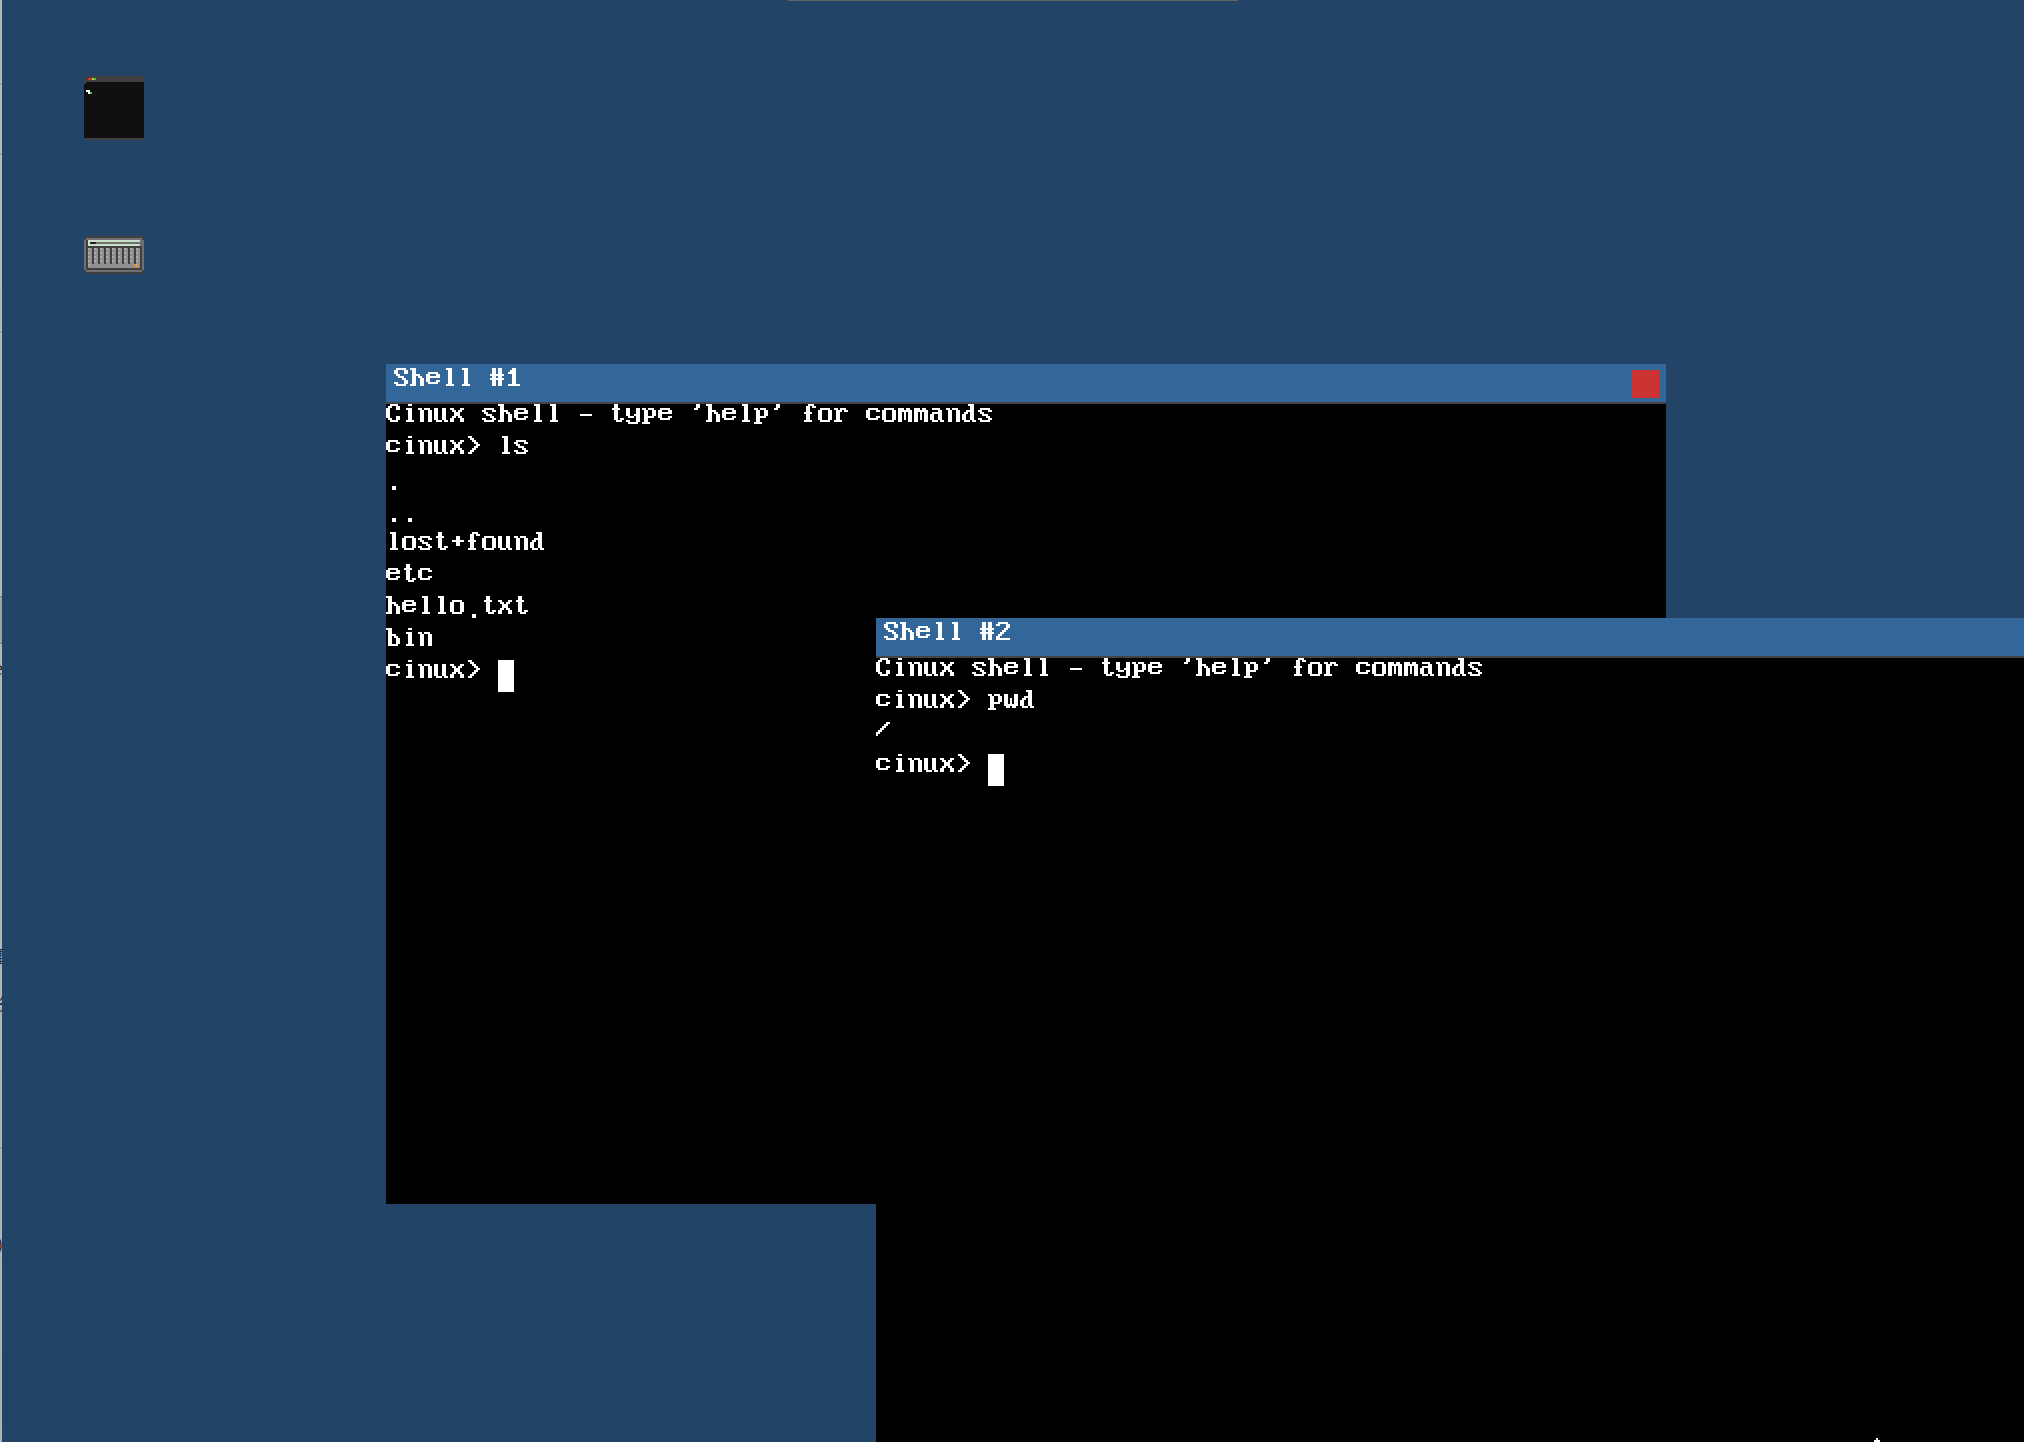
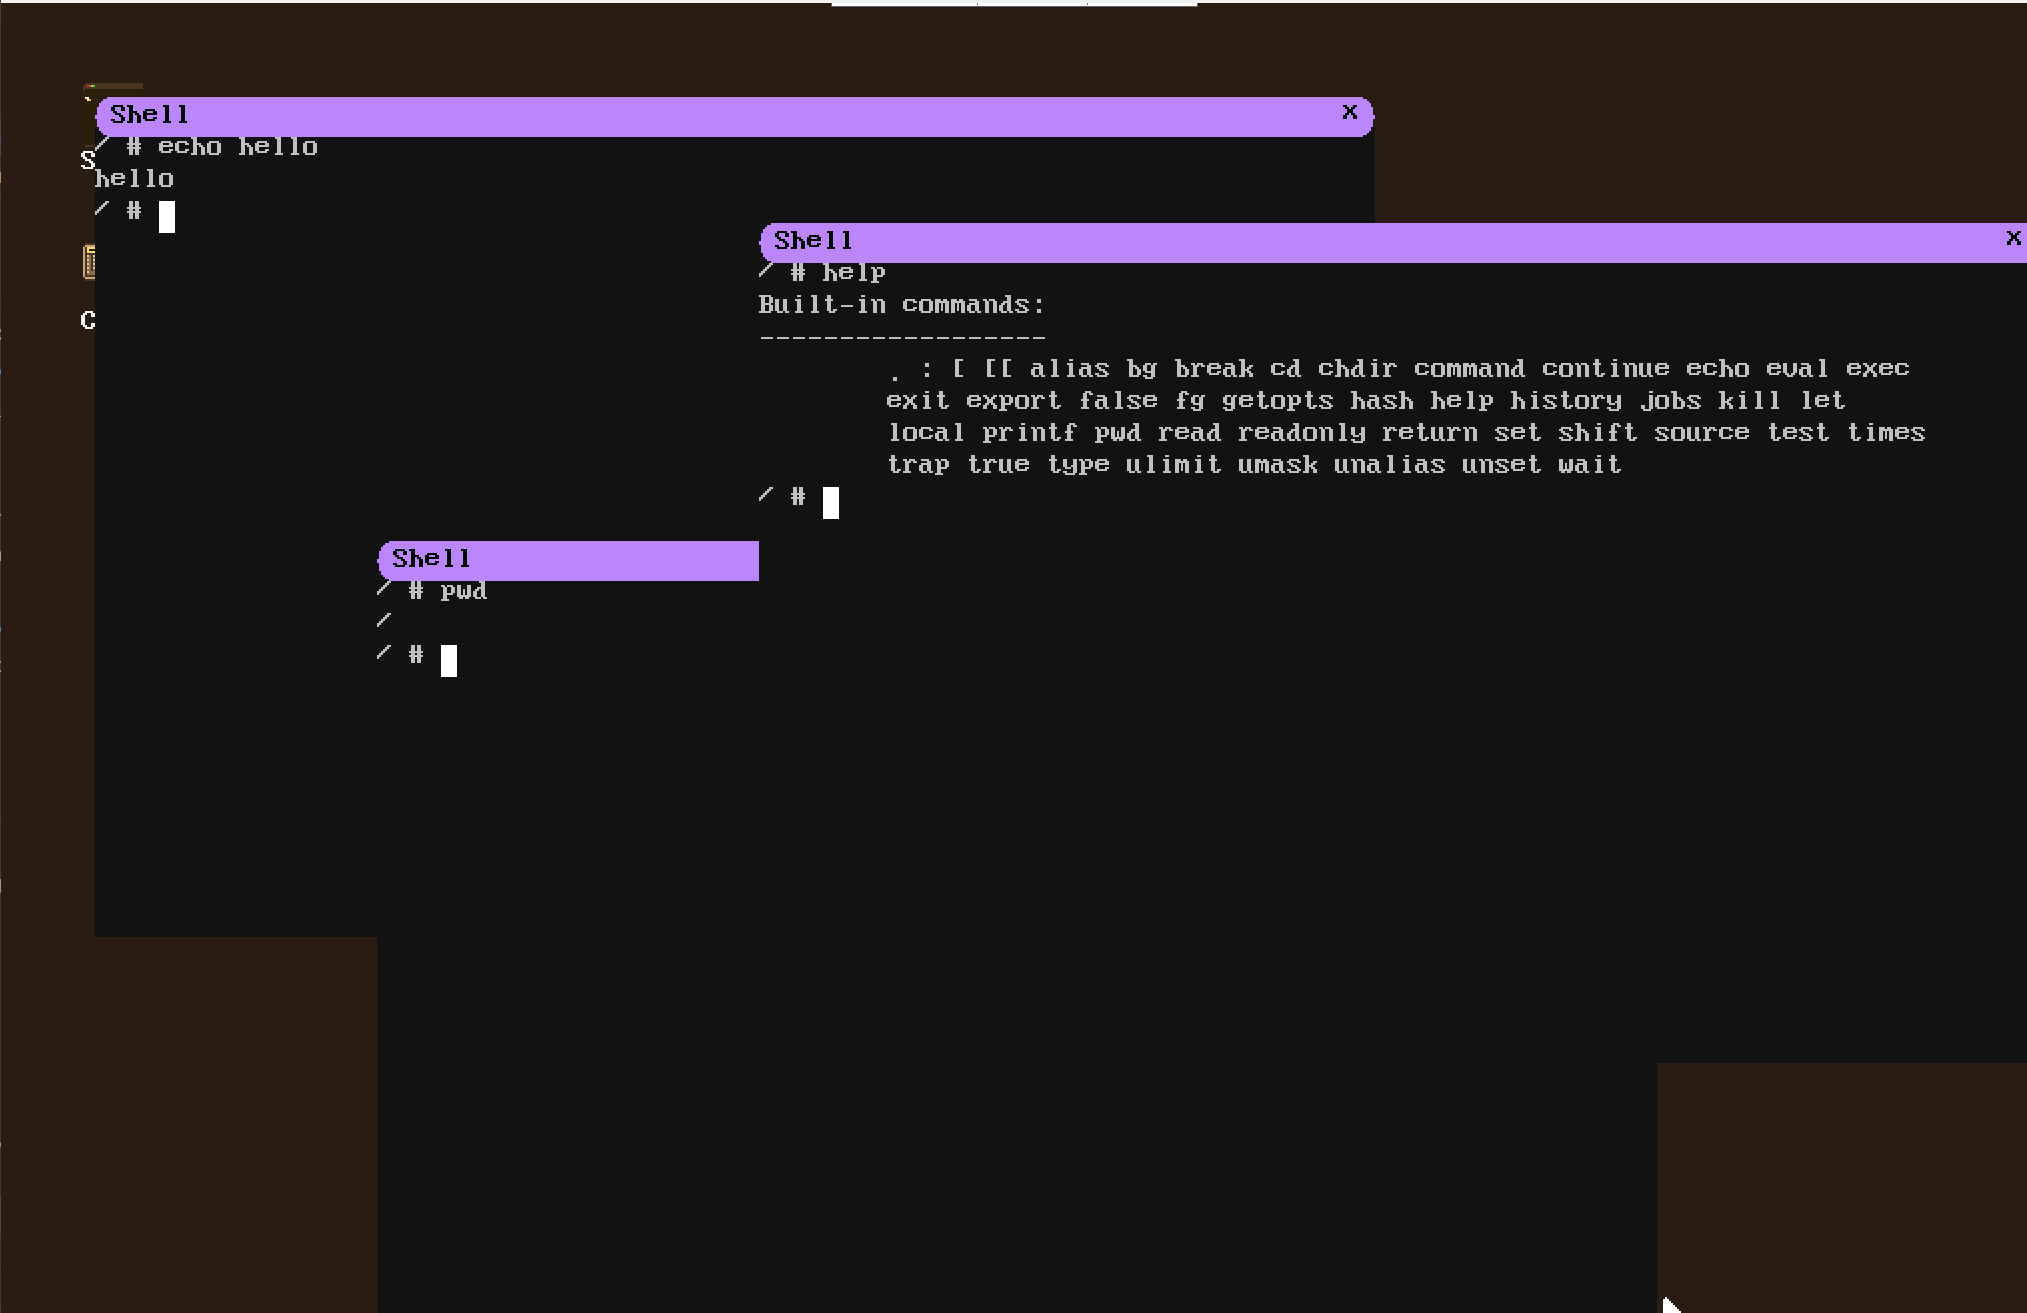
docs(readme): 加完整功能清单(13 子系统折叠)+ 录屏 gif 整理
新增「📋 完整功能清单」折叠章节(特性亮点与架构全链路之间),一个
<details> 包 13 个子系统:内核/启动链、系统调用、内存、SMP、驱动、
FS/VFS、IPC、网络、信号、安全、GUI、GCC 自举、测试。每条交叉读源码
确认(syscall_register 实测 113 行、ext2 只读+ext4 extent、TCP 握手/
挥手、setitimer ITIMER_REAL→SIGALRM、lockdep+RaceWatchpoint、SMEP/
SMAP stac/clac+extable、/dev/tty 按 controlling tty 动态解析等)。
特性亮点表 syscall 数 112→113 同步。

录屏 gif 整理:删旧 gif(filesystem/parallel_work/run_example,README
已不引用)+ RECORDING.md,更新 static_gui.png 截图。

diff --git a/README.md b/README.md
@@ -7,12 +7,12 @@
 [![Version](https://img.shields.io/badge/version-v1.0.0-blue.svg)](document/changelogs/CHANGELOG.md)
 [![License: MIT](https://img.shields.io/badge/License-MIT-blue.svg)](LICENSE)
 [![C++17](https://img.shields.io/badge/C%2B%2B-17-blue.svg)]()
-[![GCC](https://img.shields.io/badge/GCC-11%2B-blue)]()
-[![QEMU](https://img.shields.io/badge/QEMU-8.0%2B-orange)]()
+[![GCC](https://img.shields.io/badge/GCC-16.1.1%2B-blue)]()
+[![QEMU](https://img.shields.io/badge/QEMU-11.0.2%2B-orange)]()
 
 一个基于 x86_64 架构的操作系统——从 **Bootloader 到 GUI 桌面、从内核到 GCC 自举**,全链路实现。
 
-> **Note:** 本项目迁移自教程操作系统 [Cinux](https://github.com/Charliechen114514/Cinux),已演进为完整的 13 Feature / ~50 Milestone 长弧。
+> **Note:** 本项目迁移自教程操作系统 [Cinux](https://github.com/Awesome-Embedded-Learning-Studio/Cinux-Book)
 
 </div>
 
@@ -41,22 +41,19 @@
 </p>
 
 <p align="center">
-  <img src="assets/README/run_example.gif" width="45%" alt="Boot to Shell">
+  <img src="assets/README/boot_from_log_to_uname.gif" width="45%" alt="Boot to Shell">
   <img src="assets/README/multi_shell.gif" width="45%" alt="Multi Terminal">
 </p>
 <p align="center">
-  <em>从启动到 Shell（左） · 多终端窗口（右）</em>
+  <em>从启动到 Shell（左） · 使用Buildroot编译的Rootfs</em>
 </p>
 
 <p align="center">
-  <img src="assets/README/parallel_work.gif" width="45%" alt="Parallel Work">
-  <img src="assets/README/filesystem.gif" width="45%" alt="Filesystem">
+  <img src="assets/README/gcc_g++.gif" width="45%" alt="Parallel Work">
 </p>
 <p align="center">
-  <em>多终端并发执行（左） · Ext2 文件操作（右）</em>
+  <em>使用gcc, g++编译C/C++文件，支持多达100+的syscall!</em>
 </p>
-
-> 📹 录像将随 v1.0.0 Release 更新(新增 SMP 双核 / TCP/IP ping / GCC 自举编译 demo),见 [assets/README/RECORDING.md](assets/README/RECORDING.md)。
 
 ---
 
@@ -67,7 +64,7 @@
 <td width="50%">
 
 🧠 **完整 x86_64 内核**
-Bootloader → Mini Kernel → Big Kernel → User Space → GUI,全链路打通;112 个系统调用,对齐 Linux ABI
+Bootloader → Mini Kernel → Big Kernel → User Space → GUI,全链路打通;113 个系统调用,对齐 Linux ABI
 
 </td>
 <td width="50%">
@@ -127,6 +124,145 @@ NXE + SMEP + SMAP(机制回读验证)+ ASLR + UID/GID + Stack Canary(-fstack-pro
 </td>
 </tr>
 </table>
+
+---
+
+## 📋 完整功能清单
+
+> 以下清单**交叉读源码确认**(syscall 注册表 / 驱动目录 / 各子系统实现文件),非仅靠文档声明。
+
+<details>
+<summary><b>🔍 点击展开完整功能清单(13 个子系统)</b></summary>
+
+### 🧠 内核与启动链
+
+- **启动链**:MBR(stage1)→ stage2(A20 / E820 / VESA 1024×768×32 / 实模式→保护模式→长模式 / BootInfo@0x7000)→ Mini Kernel(higher-half)→ Big Kernel → 用户态 → GUI
+- **架构**:x86_64 长模式,higher-half 内核(`-mcmodel=kernel`),GDT/IDT `constexpr` 生成,IST1/IST2 独立中断栈
+- **中断/系统调用**:LAPIC(xAPIC)per-CPU timer + IPI、IOAPIC GSI 路由、MSI-X、8259 PIC 兼容回退、SYSCALL/SYSRET(LSTAR/STAR/SFMASK)
+
+### 📡 系统调用(113 个,对齐 Linux x86_64 ABI)
+
+| 类别 | 实现 |
+|---|---|
+| 进程 | fork / vfork / clone / clone3(stub) / execve / waitpid / exit / exit_group / yield / getpid / getppid / set_tid_address / tkill |
+| 进程组/会话 | setpgid / getpgid / setsid / getsid |
+| 文件 I/O | read / write / pread64 / readv / writev / open / openat / close / creat / lseek / dup / dup2 / pipe / fcntl / flock / sendfile(stub) / ioctl |
+| 文件系统 | stat / fstat / lstat / newfstatat / access / getdents / getdents64 / chdir / getcwd / mkdir / rmdir / unlink / rename / link / symlink / readlink / mknod / chmod / chown / umask / utimensat / mount / umount2 |
+| 网络/Socket | socket / connect / accept / accept4 / bind / listen / sendto / recvfrom / shutdown / getsockname / getpeername / socketpair / setsockopt(stub) / getsockopt |
+| 信号 | kill / tkill / rt_sigaction / rt_sigprocmask / rt_sigtimedwait / setitimer |
+| IPC | futex / shmget / shmat / shmdt / shmctl |
+| 时间 | nanosleep / clock_gettime / gettimeofday / time |
+| 内存 | mmap / munmap / mprotect / brk |
+| 凭证 | getuid / geteuid / getgid / getegid / setuid / setgid / getgroups / setgroups |
+| 信息 | uname / sysinfo / getrusage / dmesg |
+| I/O 多路 | poll / select |
+| 其它 | getrandom / sched_getaffinity / arch_prctl / reboot / prlimit64(stub) / rseq(stub) / getcpu(stub) / set_robust_list(stub) / ping(自定义) / cinux_exit(自定义) |
+
+### 💾 内存管理
+
+- **按需分页**:VMA + 缺页处理;匿名页零填充,文件页走 Page Cache
+- **CoW fork**:fork 标记 `FLAG_COW`,写时复制;设备映射(`FLAG_PCD`)直共享
+- **Page Cache**:inode+offset 哈希,命中/回填/写失效,cache 所有权 refcount
+- **Slab 分配器**:16~2048B 通用 cache + 专用 cache,double-free 毒哨兵,`kmalloc`/`kfree`
+- **mmap/munmap/mprotect/brk**:VMA 合并/分裂/查找空闲区
+- **每进程页表**:`AddressSpace` 拥有 PML4,execve 清用户映射
+- **TLB shootdown IPI**:vector 0xE1,all-excl-self + invlpg + ack
+- **refcount/mapcount 分离**:`PhysRef` 所有权 + `pte_count` 映射计数(防 lto_plugin UAF)
+
+### ⚡ SMP 多核
+
+- **-smp 2**:ACPI MADT 探测 AP,INIT-SIPI-SIPI + trampoline@0x8000 引导
+- **per-CPU**:GS.base → PerCpu 块(kernel_stack / current),每 CPU 独立 GDT/TSS/idle
+- **IPI**:reschedule(0xE0)唤醒 idle AP、TLB shootdown(0xE1)
+- **lockdep**:per-CPU 持锁栈 + 全局锁序图 + AB-BA 死锁检测 + `assert_held`
+- **RaceWatchpoint**(`RACE_DETECT`):`RACE_TOUCH` 抓"根本没锁"的跨 CPU 交错 → kpanic
+- **迁移竞态修复**:`task->on_cpu` 防 ctx 保存/恢复竞态
+
+### 🖥️ 设备驱动
+
+| 类别 | 驱动 | 说明 |
+|---|---|---|
+| 存储 | NVMe / AHCI / VirtIO-blk | 三套块设备,均可作 boot disk(默认 AHCI),sync poll IO,512B 扇区 |
+| 网络 | e1000 / VirtIO-net | TX/RX 环,SLIRP 用户态网络(`ping 10.0.2.2`) |
+| 输入 | xHCI USB HID | boot keyboard + tablet(绝对指针)+ autorepeat;PS/2 键鼠回退 |
+| 定时器 | PIT / HPET / RTC / LAPIC timer | PIT 100Hz 时钟源(mode 2)、HPET 单调时、RTC 墙钟、LAPIC per-CPU 抢占 |
+| 控制台 | Serial 16550 / Console TTY / PTY | 行规范 + 信号,PTY master/slave 对(多终端) |
+| 图形 | Framebuffer / PSF1 font | `/dev/fb0` mmap,2MB huge page 映射 |
+| 平台 | PCI / MSI-X / ACPI(MADT/HPET) / 8259 PIC | 设备枚举、中断路由、拓扑发现 |
+
+### 📁 文件系统与 VFS
+
+- **ext2 / ext4**:统一驱动,**只读**;ext4 extent(depth-0 leaf)支持;inode cache;块大小 1/2/4K
+- **tmpfs**:内存 FS,读写,`/tmp` 默认挂载
+- **procfs**:`/proc/cpuinfo`、`/proc/meminfo`、`/proc/<pid>/{stat,cmdline}`
+- **devfs**:`/dev/null`、`/dev/zero`、`/dev/console`、`/dev/ptmx`、`/dev/pts/N`、`/dev/fb0`、`/dev/event0`、`/dev/tty`(按调用者 controlling tty 动态解析)
+- **ramdisk**:ustar initrd(早期引导文件)
+- **VFS**:Dentry Cache(256 桶哈希;DevFs 动态 lookup 不缓存)、mount 表(最长前缀匹配)、符号链接(循环检测 max 40)、POSIX flock(SH/EX/UN + LOCK_NB)、fd 表(CLOEXEC)
+
+### 🔌 IPC
+
+- **pipe**:环形缓冲 + 阻塞 + `O_NONBLOCK` + SIGPIPE/BrokenPipe + EINTR
+- **FIFO**:命名管道,内存名注册表
+- **AF_UNIX socket**:字节流,bind/listen/accept/connect,4KB RX 环,accept 队列 4
+- **socketpair**:AF_UNIX 匿名连接对
+- **SysV shm**:shmget/shmat/shmdt/shmctl,物理页 + pte_count,IPC_RMID 延迟清理,SHM_RDONLY
+- **poll/select**:共享引擎,pollfd 64 / fd_set,超时,POLLIN/OUT/HUP/ERR
+- **futex**:用户态快速互斥
+
+### 🌐 网络协议栈
+
+- **L2**:以太网帧(14B 头),`NetDevice` 抽象,loopback
+- **ARP**:缓存 + 异步请求/回复,自学习
+- **IPv4**:20B 头 + 校验和 + L4 分发(ICMP/UDP/TCP),TTL=64
+- **ICMP**:echo request/reply,raw socket 投递 reply
+- **UDP**:无连接,端口 demux,8 槽 RX 环,自动临时端口,伪首部校验和
+- **TCP**:三次握手 / 状态机(CLOSED…ESTABLISHED…FIN_WAIT)/ 四次挥手 / RST,8KB RX 环,accept 队列 8,序号-ACK
+- **Socket API**:AF_INET / AF_UNIX,SOCK_STREAM / SOCK_DGRAM / SOCK_RAW,bind/connect/listen/accept/sendto/recvfrom/shutdown
+- **SLIRP**:QEMU 用户态网络,10.0.2.2 网关,busybox ping 可用(SOCK_RAW + setitimer 每秒发包)
+
+### 🚦 信号
+
+- **22 个 POSIX 信号**(SIGHUP…SIGTTOU),默认动作表(Terminate / CoreDump / Ignore / Stop / Continue)
+- **自定义 handler**:sigaction 安装,signal frame(user 栈)+ sigreturn trampoline(`int $0x80` @ USER_SIGRETURN_PAGE),RSP%16==8 对齐
+- **信号掩码**:rt_sigprocmask(BLOCK/UNBLOCK/SETMASK),SIGKILL/SIGSTOP 不可挡
+- **force_send**:同步故障(#PF/#UD)强制投递,绕过 SIG_IGN 防自循环
+- **EINTR**:阻塞 IO(pipe/socket/poll)可被信号打断(`wait_queue_head` + `schedule_blocked` signal-aware);Mutex/futex/waitpid 不可打断
+- **setitimer**:ITIMER_REAL → 周期 SIGALRM(PIT tick 驱动,periodic / one-shot)
+- **作业控制**:SIGTSTP(^Z)/ SIGTTIN / SIGTTOU 经 PTY 行规范投递前台 pgrp;SIGCONT 恢复
+- **SIGCHLD**:子退出通知 + waitpid 回收 + Zombie
+
+### 🔒 安全
+
+- **SMEP / SMAP**:CR4 开启(CPUID 门控),`stac`/`clac` + `access_ok` + 异常表修复
+- **ASLR**:PIE base(0~16MiB)+ 栈(0~8MiB)+ mmap(0~1GiB)+ brk(0~16MiB)抖动
+- **NX / W^X**:EFER.NXE,非可执行 VMA 置 NX,PT_GNU_STACK 解析
+- **凭证**:UID/GID/eUID/eGID + supplementary groups + setuid/setgid
+- **Stack Canary**:`-fstack-protector-strong`
+
+### 🖼️ GUI 桌面(用户态)
+
+- **用户态 host**:`cinux_gui_host` 是普通用户进程(mmap `/dev/fb0` + poll `/dev/event0`)
+- **Widget 工具包**:WindowManager + Window + DesktopIcon + TerminalWidget + Label
+- **多终端**:最多 4 个 PTY shell,点 Shell 图标生成 + 窗口错开
+- **点击聚焦**:窗口内点击切键盘焦点到对应 shell
+- **xHCI USB HID**:键盘(scancode→ASCII + Ctrl 控制码 + autorepeat)+ 鼠标(绝对/相对)
+- **Ctrl+C**:经 PTY 行规范 → 前台 pgrp SIGINT;`setsid` + `TIOCSCTTY` 隔离
+
+### 👨💻 GCC 自举
+
+- **gcc / g++**:`gcc hello.c && ./a.out`、`g++ hello.cpp`,cc1→as→ld 全闭环
+- **musl 动态链接**:PT_INTERP + ldso 加载 + auxv,USER_INTERP_BASE@256MiB
+- **PIE**:默认 PIE,ET_DYN + ASLR base
+- **busybox init**:PID 1,/etc/inittab respawn /bin/sh
+
+### 🧪 测试与可观测
+
+- **run-kernel-test-all**:单核 + `-smp 2` 两 leg,~1946 项,`isa-debug-exit` 自动退出
+- **sanitizer 矩阵**:Debug/Release × UBSAN/LOCKDEP/ASAN/TSAN,CI 6 cell
+- **KALLSYMS + backtrace + panic + memstats**:FO 可观测性
+- **机制回读**:SMEP/SMAP/CR4/EFER/LSTAR 写后读验证(不靠"没崩就算对")
+
+</details>
 
 ---
 